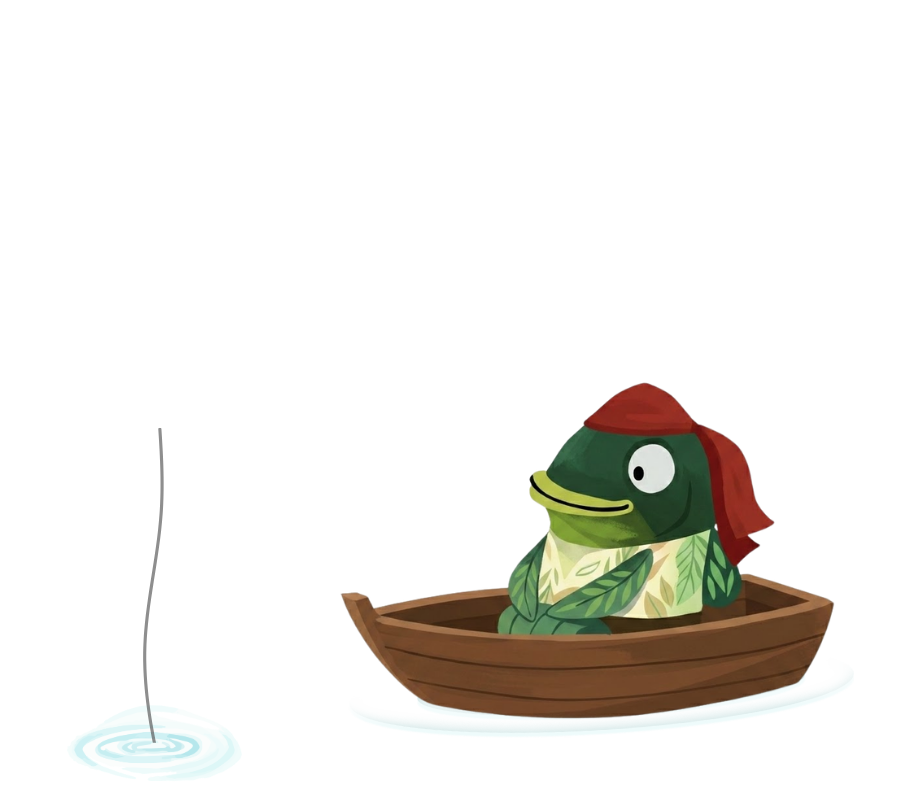
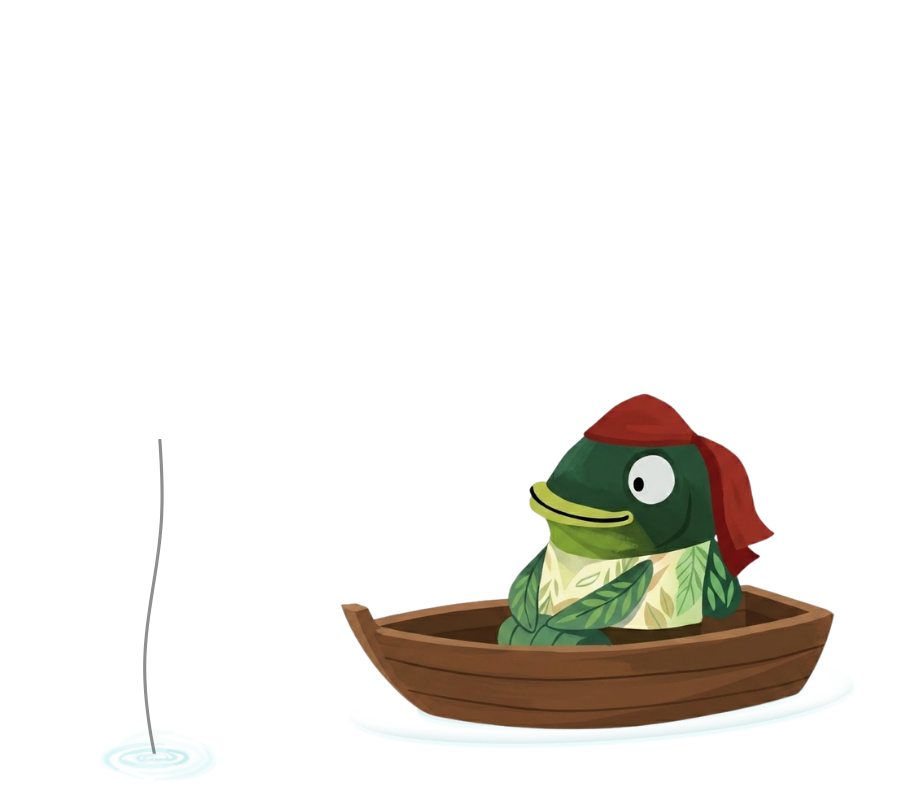
Default fishing sprite: re-source to align hull seat across all colors
The default green sprite's hull seat sat 1% higher on the wait frame
than every non-default color, which is why a single boat-overlay
position couldn't fit all colors and required a per-color runtime
offset. New defaultfishing.png re-frames the wait pose to match the
non-default sheets. After re-normalizing:

- All character colors now have the boat hull seat at the same Y on
  every frame, so boat overlays use a single shared position config.
- Bumped wait.top from 72 → 73 in lib/boats.ts (matches the consistent
  hull seat) and consolidated all six boats onto a shared SHARED_POSITIONS
  constant so future tuning is one edit.
- Removed getBoatPosition() helper and the fishing-test inline offset —
  no more per-color branching at render time.
- Updated normalize-fishing-sprites.mjs to read default from
  defaultfishing.png (was newfishing4.png).
- Deleted legacy newfishing4.png source.

diff --git a/web/lib/boats.ts b/web/lib/boats.ts
@@ -24,6 +24,15 @@ export interface BoatDef {
 /** Default "Driftwood" — no overlay; uses the base sprite's boat. */
 export const DEFAULT_BOAT_COLOR = '#a07858'
 
+// All boats share the same per-frame anchor relative to the character div.
+// Sprites are normalized by web/normalize-fishing-sprites.mjs so every
+// character color has the boat hull seat at the same Y on each frame.
+const SHARED_POSITIONS: Record<BoatFrame, BoatPos> = {
+  rest: { top: 77, left: 31, width: 55, rotate: 0 },
+  wait: { top: 73, left: 38, width: 55, rotate: 0 },
+  cast: { top: 77, left: 37, width: 55, rotate: 0 },
+}
+
 export const BOATS: BoatDef[] = [
   {
     id: 'oak',
@@ -32,11 +41,7 @@ export const BOATS: BoatDef[] = [
     cost: 1000,
     restImageUrl: '/boat_oak_rest.png',
     castImageUrl: '/boat_oak_cast.png',
-    positions: {
-      rest: { top: 77, left: 31, width: 55, rotate: 0 },
-      wait: { top: 72, left: 38, width: 55, rotate: 0 },
-      cast: { top: 77, left: 37, width: 55, rotate: 0 },
-    },
+    positions: SHARED_POSITIONS,
   },
   {
     id: 'cherry',
@@ -45,11 +50,7 @@ export const BOATS: BoatDef[] = [
     cost: 2000,
     restImageUrl: '/boat_cherry_rest.png',
     castImageUrl: '/boat_cherry_cast.png',
-    positions: {
-      rest: { top: 77, left: 31, width: 55, rotate: 0 },
-      wait: { top: 72, left: 38, width: 55, rotate: 0 },
-      cast: { top: 77, left: 37, width: 55, rotate: 0 },
-    },
+    positions: SHARED_POSITIONS,
   },
   {
     id: 'desert',
@@ -58,11 +59,7 @@ export const BOATS: BoatDef[] = [
     cost: 5000,
     restImageUrl: '/boat_desert_rest.png',
     castImageUrl: '/boat_desert_cast.png',
-    positions: {
-      rest: { top: 77, left: 31, width: 55, rotate: 0 },
-      wait: { top: 72, left: 38, width: 55, rotate: 0 },
-      cast: { top: 77, left: 37, width: 55, rotate: 0 },
-    },
+    positions: SHARED_POSITIONS,
   },
   {
     id: 'mahogany',
@@ -71,11 +68,7 @@ export const BOATS: BoatDef[] = [
     cost: 5000,
     restImageUrl: '/boat_mahogany_rest.png',
     castImageUrl: '/boat_mahogany_cast.png',
-    positions: {
-      rest: { top: 77, left: 31, width: 55, rotate: 0 },
-      wait: { top: 72, left: 38, width: 55, rotate: 0 },
-      cast: { top: 77, left: 37, width: 55, rotate: 0 },
-    },
+    positions: SHARED_POSITIONS,
   },
   {
     id: 'pistachio',
@@ -84,11 +77,7 @@ export const BOATS: BoatDef[] = [
     cost: 5000,
     restImageUrl: '/boat_pistachio_rest.png',
     castImageUrl: '/boat_pistachio_cast.png',
-    positions: {
-      rest: { top: 77, left: 31, width: 55, rotate: 0 },
-      wait: { top: 72, left: 38, width: 55, rotate: 0 },
-      cast: { top: 77, left: 37, width: 55, rotate: 0 },
-    },
+    positions: SHARED_POSITIONS,
   },
   {
     id: 'taupe',
@@ -97,11 +86,7 @@ export const BOATS: BoatDef[] = [
     cost: 5000,
     restImageUrl: '/boat_taupe_rest.png',
     castImageUrl: '/boat_taupe_cast.png',
-    positions: {
-      rest: { top: 77, left: 31, width: 55, rotate: 0 },
-      wait: { top: 72, left: 38, width: 55, rotate: 0 },
-      cast: { top: 77, left: 37, width: 55, rotate: 0 },
-    },
+    positions: SHARED_POSITIONS,
   },
 ]
 
@@ -110,22 +95,4 @@ export const BOAT_MAP: Record<string, BoatDef> = Object.fromEntries(BOATS.map(b 
 export function getBoat(id: string | null | undefined): BoatDef | null {
   if (!id) return null
   return BOAT_MAP[id] ?? null
-}
-
-/**
- * Returns the boat overlay position for a given frame, applying any character-
- * color anchor adjustment. Non-default character color sprites have their
- * body framed 1% lower on the `wait` frame than the default green sprites, so
- * the boat overlay needs to shift down to stay seated on the hull.
- */
-export function getBoatPosition(
-  boat: BoatDef,
-  frame: BoatFrame,
-  characterColor: string,
-): BoatPos {
-  const base = boat.positions[frame]
-  if (frame === 'wait' && characterColor !== 'default') {
-    return { ...base, top: base.top + 1 }
-  }
-  return base
 }

diff --git a/web/app/fishing-test/FishingTestClient.tsx b/web/app/fishing-test/FishingTestClient.tsx
@@ -139,21 +139,16 @@ export default function FishingTestClient() {
           }}>
             <img src={FRAMES[frame]} alt="" style={{ width: '100%', display: 'block' }} />
 
-            {boatEnabled && (() => {
-              // Non-default character color sprites have their body framed 1%
-              // lower on the wait frame, so the boat overlay shifts to match.
-              const colorOffset = frame === 'wait' && characterColor !== 'default' ? 1 : 0
-              return (
-                <img src={frame === 'cast' ? BOATS[0].castImageUrl : BOATS[0].restImageUrl} alt="boat" style={{
-                  position: 'absolute',
-                  top: `${boatCfg[frame].top + colorOffset}%`, left: `${boatCfg[frame].left}%`,
-                  width: `${boatCfg[frame].width}%`,
-                  transform: `rotate(${boatCfg[frame].rotate}deg)`,
-                  transformOrigin: 'center center',
-                  pointerEvents: 'none',
-                }} />
-              )
-            })()}
+            {boatEnabled && (
+              <img src={frame === 'cast' ? BOATS[0].castImageUrl : BOATS[0].restImageUrl} alt="boat" style={{
+                position: 'absolute',
+                top: `${boatCfg[frame].top}%`, left: `${boatCfg[frame].left}%`,
+                width: `${boatCfg[frame].width}%`,
+                transform: `rotate(${boatCfg[frame].rotate}deg)`,
+                transformOrigin: 'center center',
+                pointerEvents: 'none',
+              }} />
+            )}
 
             {rod.imageUrl && (
               <img src={rod.imageUrl} alt="rod" className={rod.glow ? 'rod-glow' : undefined} style={{

diff --git a/web/app/fishing/FishingGame.tsx b/web/app/fishing/FishingGame.tsx
@@ -5,7 +5,7 @@ import { motion, AnimatePresence } from 'framer-motion'
 import Link from 'next/link'
 import { castLine, reelIn, reelCrate, sellFish, quickBuyWorms, awardPerfectChallengeGem, saveHighestPerfectStreak, markFishingTourSeen, markFishingCatchTourSeen, checkLeaderboardPosition, claimZoneReward, equipRingSkin, equipBoat, buyBoat, equipSpecialItem, buySpecialItem, useTideTurnerSkip, prestigeZone, activateEvent, type FishSpecies } from './actions'
 import { liquidateAllFish } from '@/app/tavern/market/actions'
-import { BOATS, getBoat, getBoatPosition } from '@/lib/boats'
+import { BOATS, getBoat } from '@/lib/boats'
 import { upgradeFishHold } from './holdActions'
 import { getFishHold, FISH_HOLD_TIERS } from '@/lib/fishHold'
 import { CHARACTER_COLORS, getCharacterSprites } from '@/lib/characters'
@@ -2561,7 +2561,7 @@ export default function FishingGame({
               }}>
                 <img src={charSrc[f]} alt="" style={{ width: '100%', display: 'block' }} />
                 {boatDef && (() => {
-                  const bp = getBoatPosition(boatDef, f, localCharacterColor)
+                  const bp = boatDef.positions[f]
                   const src = f === 'cast' ? boatDef.castImageUrl : boatDef.restImageUrl
                   return (
                     <img src={src} alt="" style={{
